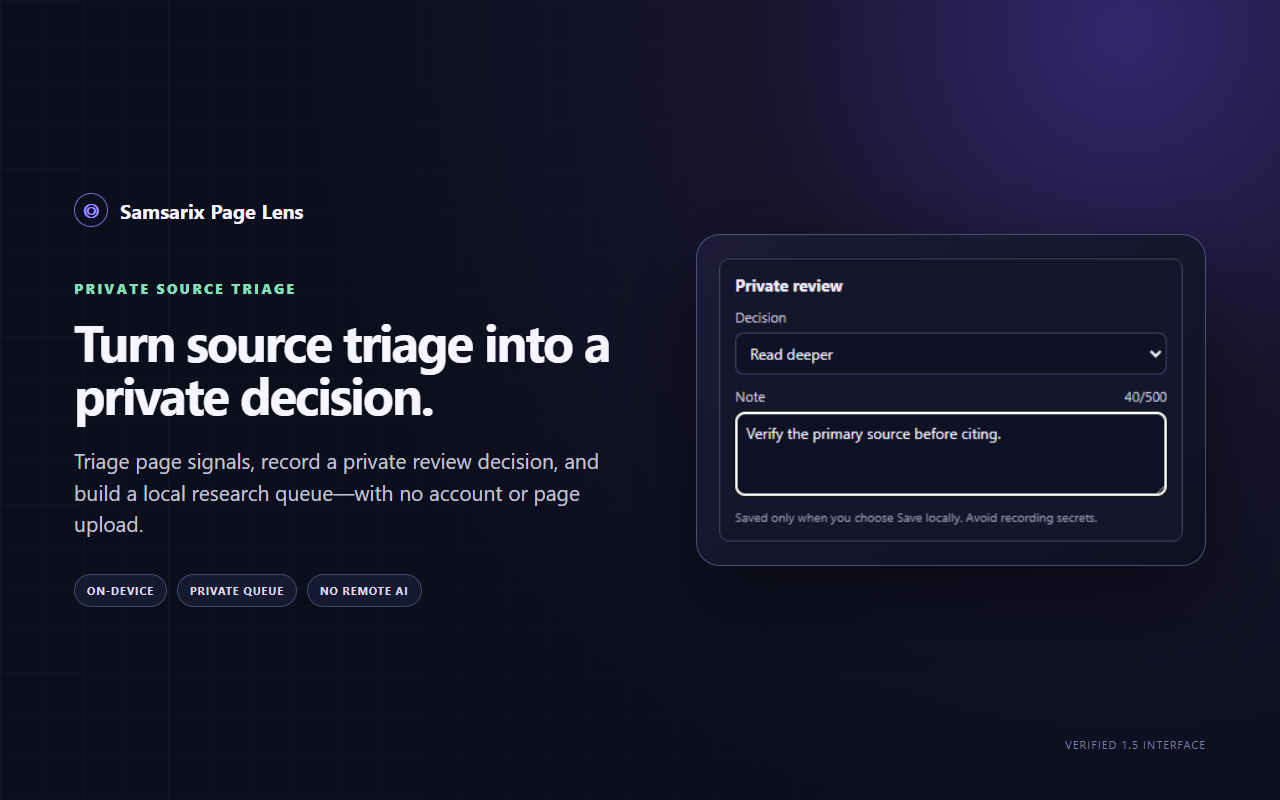
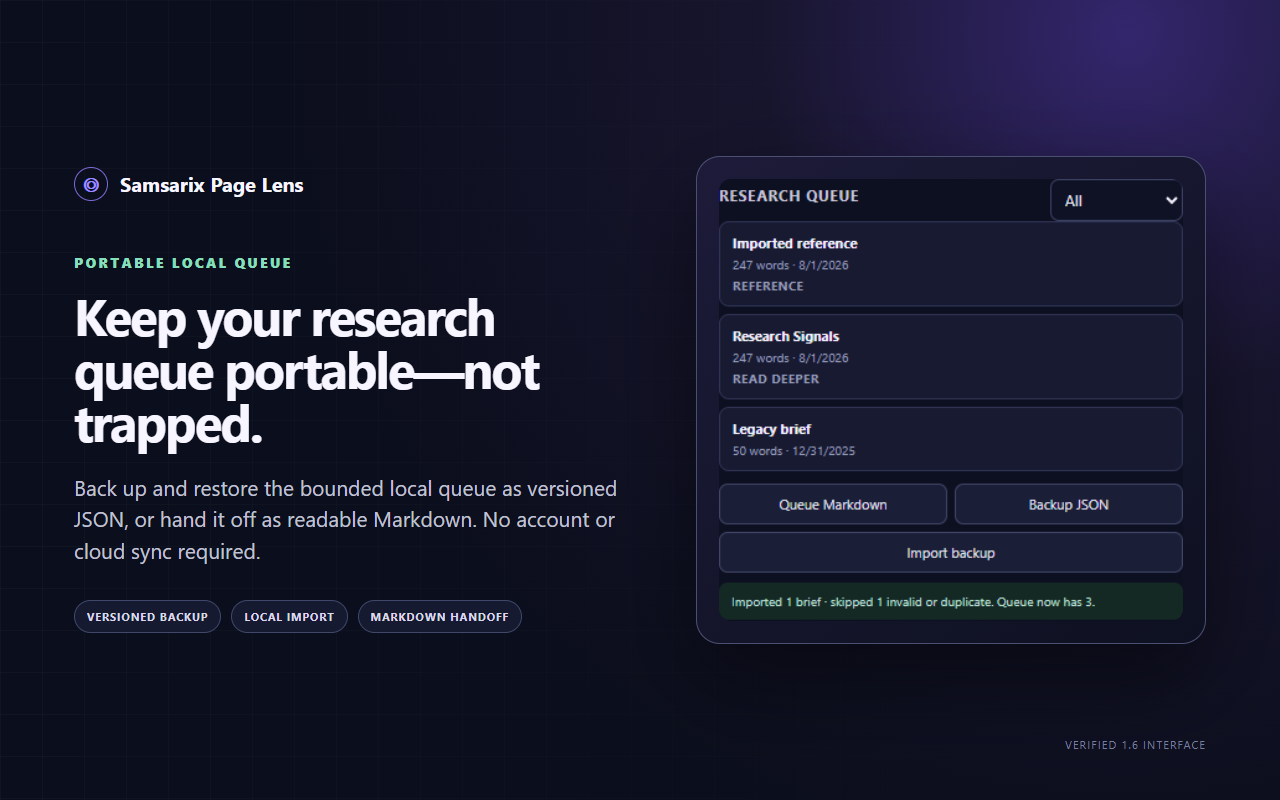
docs: prepare the Page Lens 1.6 release

diff --git a/site/privacy/index.html b/site/privacy/index.html
@@ -24,7 +24,7 @@
       <section><h2>What is processed</h2><p>The bounded extractor may process page text, title, sanitized URL, description, declared HTML language, headings, paragraphs, links, citation-like markup, visible byline/date metadata, and up to 20 unique external source domains. It visits at most 15,000 DOM nodes and retains at most 250,000 characters.</p><p>It skips scripts, styles, navigation, footers, forms, dialogs, templates, and elements explicitly marked <code>hidden</code> or <code>aria-hidden="true"</code>. It does not inspect form values. CSS-only hidden text may still be encountered.</p></section>
       <section><h2>Language and readability</h2><p>The English readability formula runs only when a page explicitly declares English. Declared non-English and undeclared-language pages retain Unicode-aware word, frequent-term, structure, and source analysis, while readability is shown as unavailable. No remote language detection occurs.</p></section>
       <section><h2>Storage and retention</h2><p>Nothing is saved automatically. Selecting <strong>Save locally</strong> stores a schema-v2 brief in <code>chrome.storage.local</code>. History is deduplicated by sanitized page URL, capped at 25 briefs, and remains until the user clears it or removes the extension/browser profile.</p><p>A brief contains structured counts and scores, visible metadata, frequent terms, an outline, external source domains, timestamps, an excerpt of at most 280 characters, and any private review decision or note entered by the user. Review notes are capped at 500 characters; users are warned not to record secrets. URL credentials, query parameters, and fragments are removed before storage or export. Paths, titles, metadata, excerpts, and notes can still be sensitive.</p><p>Chrome shares <code>chrome.storage.local</code> between regular and Incognito extension contexts. Saving in Incognito therefore adds the brief to the same persistent history available during regular browsing.</p></section>
-      <section><h2>Research queue, comparison, and export</h2><p>Research-queue filters and two-brief comparisons are computed locally. Comparisons are not stored automatically. Review decisions and notes are included only in a user-requested saved brief or explicit export. Copy, Markdown, and JSON export require explicit user action. After export, the system clipboard or browser download behavior controls the resulting data.</p></section>
+      <section><h2>Research queue, portability, and comparison</h2><p>Research-queue filters and two-brief comparisons are computed locally. Comparisons are not stored automatically. Review decisions and notes are included only in a user-requested saved brief or explicit export. Copy, Markdown, and JSON export require explicit user action. After export, the system clipboard or browser download behavior controls the resulting data.</p><p>Whole-queue Markdown and versioned JSON backup are explicit local actions, not synchronization. Import reads one user-selected JSON file locally, limited to 1 MB and 100 input records. Records are validated, sanitized, deduplicated, and capped at 25 stored briefs before one storage write. An invalid backup does not modify the existing queue.</p></section>
       <section><h2>Permissions</h2><ul><li><code>activeTab</code> gives temporary access only to the invoked tab.</li><li><code>scripting</code> runs the bounded extractor after explicit action.</li><li><code>storage</code> retains user-requested briefs.</li></ul><p>Page Lens requests no host permissions and installs no background worker or always-on content script.</p></section>
       <section><h2>Changes</h2><p>Any future remote processing requires an architecture, permission, store-declaration, and disclosure review before release. The canonical source disclosure is maintained with the extension in <a href="https://github.com/Deathcharge/samsarix-page-lens/blob/main/docs/PRIVACY.md">docs/PRIVACY.md</a>.</p></section>
     </main>

diff --git a/README.md b/README.md
@@ -11,10 +11,11 @@ One explicit click produces:
 - privacy-safe Markdown or JSON export and optional local history.
 - an on-device comparison between the current brief and any saved baseline, with descriptive deltas and shared signals.
 - a private research queue with review decisions, bounded notes, and decision filters.
+- versioned JSON queue backup/import and whole-queue Markdown handoff without cloud sync.
 
 Source signals describe what the page exposes. They do **not** establish factuality, credibility, authority, or quality.
 
-Status: **1.5 release candidate for unpacked-extension evaluation.** Chrome Web Store publication and pilot adoption are not yet complete.
+Status: **1.6 release candidate for unpacked-extension evaluation.** Chrome Web Store publication and pilot adoption are not yet complete.
 
 ## Install and try it
 
@@ -37,6 +38,7 @@ Chrome blocks extensions from reading internal pages such as `chrome://extension
 - **Source comparison:** save a baseline, analyze a second page, and compare length, structure, provenance cues, citations, shared source domains, and frequent terms locally.
 - **Private browsing workflow:** analyze intranet or sensitive pages locally, then choose explicitly whether to save a bounded brief.
 - **Research queue:** mark a saved source to read deeper, keep as a reference, or skip; add a short private note and filter the queue without creating an account.
+- **Portable recovery:** download the bounded queue as versioned JSON, restore it into another Page Lens profile, or hand off the whole queue as readable Markdown.
 
 ## Privacy and permissions
 
@@ -54,6 +56,8 @@ Saved and exported page/source URLs have credentials, queries, and fragments rem
 
 Comparisons are calculated on demand from two briefs already in the popup and are not stored automatically. Comparison Markdown contains sanitized URLs and descriptive deltas; it does not rank either page as more truthful or credible.
 
+Queue backup and import are explicit local actions, not synchronization. JSON imports are limited to 1 MB and 100 input records, validated before storage, normalized through the same privacy migration as existing history, deduplicated, and capped at 25 stored briefs. A structurally invalid backup does not modify the current queue.
+
 ## Development and verification
 
 ```bash
@@ -62,7 +66,7 @@ npx playwright install chromium
 npm run check
 ```
 
-The complete gate runs manifest/privacy/workflow policy checks, twenty-four deterministic unit tests, a clean artifact build, and an installed-extension Chromium test covering extraction, sanitization, popup rendering, local save, review decisions and filtering, history reopening, saved-baseline comparison, export, and declared non-English behavior.
+The complete gate runs manifest/privacy/workflow policy checks, twenty-seven deterministic unit tests, a clean artifact build, and an installed-extension Chromium test covering extraction, sanitization, popup rendering, local save, review decisions and filtering, queue backup/import, history reopening, saved-baseline comparison, export, and declared non-English behavior.
 
 Individual commands:
 
@@ -73,7 +77,7 @@ npm run build
 npm run test:browser
 ```
 
-`npm run build` creates the unpacked `dist/samsarix-page-lens` directory and deterministic `dist/samsarix-page-lens-1.5.0.zip`, containing only the runtime extension, icons, license, notice, and build metadata. Playwright, jsdom, and fflate are development-only dependencies and are not shipped.
+`npm run build` creates the unpacked `dist/samsarix-page-lens` directory and deterministic `dist/samsarix-page-lens-1.6.0.zip`, containing only the runtime extension, icons, license, notice, and build metadata. Playwright, jsdom, and fflate are development-only dependencies and are not shipped.
 
 ### Architecture
 

diff --git a/docs/STORE_LISTING.md b/docs/STORE_LISTING.md
@@ -12,9 +12,9 @@
 
 **Detailed description:**
 
-Samsarix Page Lens helps researchers, writers, journalists, students, and analysts decide whether a webpage deserves deeper reading. With one explicit click, it creates an on-device brief with estimated reading time, frequent terms, readability, document structure, visible byline/date metadata, citation markup, heading outline, and external source domains. Mark saved sources to read deeper, keep as references, or skip; add a bounded private note and filter the resulting research queue. A saved brief can also become a comparison baseline for descriptive deltas and shared source signals.
+Samsarix Page Lens helps researchers, writers, journalists, students, and analysts decide whether a webpage deserves deeper reading. With one explicit click, it creates an on-device brief with estimated reading time, frequent terms, readability, document structure, visible byline/date metadata, citation markup, heading outline, and external source domains. Mark saved sources to read deeper, keep as references, or skip; add a bounded private note and filter the resulting research queue. Back up or restore the queue with versioned JSON, hand it off as Markdown, or use a saved brief as a comparison baseline.
 
-Analysis, queue filtering, and comparison stay in the browser. There are no accounts, analytics, ads, remote AI services, or page-content uploads. Results and user-entered review metadata can be copied, exported as JSON or Markdown, or saved locally for later reference; comparisons are not stored automatically.
+Analysis, queue filtering, backup/import, and comparison stay in the browser. There are no accounts, analytics, ads, remote AI services, or page-content uploads. Results and user-entered review metadata can be copied, exported as JSON or Markdown, or saved locally for later reference; comparisons are not stored automatically and backup files are never synchronized by Page Lens.
 
 Readability is an English-oriented sentence-and-syllable estimate calculated only for pages that explicitly declare English. If a page declares another language or omits its language, readability is shown as unavailable with the reason. Unicode-aware word counts, frequent terms, structure, and source signals remain available. Source signals are not a fact check, credibility rating, or quality judgment. Saved and exported URLs have credentials, queries, and fragments removed.
 
@@ -29,7 +29,7 @@ No host permissions are requested.
 ## Owner-provided assets and actions
 
 - [ ] Confirm Samsarix LLC owns or has permission to use the product name and supplied icon artwork.
-- [x] Generate and visually review three 1280×800 screenshots in `store-assets/` from the packaged 1.5 browser journey.
+- [x] Generate and visually review three 1280×800 screenshots in `store-assets/` from the packaged 1.6 browser journey.
 - [ ] Provide a 440×280 promotional tile if desired.
 - [x] Prepare the standalone disclosure at `site/privacy/index.html` and a SHA-pinned, owner-triggered GitHub Pages workflow.
 - [ ] Enable GitHub Pages, manually run **Publish privacy disclosure**, verify the reported HTTPS URL, and use it in the listing.

diff --git a/docs/PRODUCTIZATION.md b/docs/PRODUCTIZATION.md
@@ -212,3 +212,22 @@ Local release evidence for 1.5:
 - `npm audit`: 0 vulnerabilities.
[1 lines of base64/hex data omitted]
 - PR head, merge commit, exact-head CI, and post-merge `main` CI will be recorded at release handoff.
+
+## Samsarix 1.6 portable queue recovery
+
+The local-first queue now has an explicit portability and recovery boundary:
+
+- **Backup JSON** emits a versioned Page Lens envelope containing the normalized, deduplicated queue of at most 25 briefs.
+- **Import backup** reads one user-selected JSON file locally, rejects files over 1 MB or envelopes over 100 input records, and validates the complete envelope before writing.
+- Imported records pass through the same schema migration, URL sanitization, note bounds, and deduplication as existing history; imported records intentionally take precedence for matching URLs.
+- **Queue Markdown** creates a readable whole-queue handoff but is not described as a lossless restore format.
+- No runtime network request, account, host permission, background worker, `unlimitedStorage`, or sync permission was added.
+
+Local release evidence for 1.6:
+
+- Manifest/privacy/workflow policy checks and all 27 deterministic unit tests pass.
+- The packaged Chromium journey covers empty-profile recovery access, exact queue backup download, bounded import, URL sanitization, imported-first merge, decision filtering, comparison/export, legacy migration, review timestamps, and declared non-English behavior.
+- `npm run build:store-assets` regenerated and visually verified three 1280×800 store compositions, including the actual portable-queue recovery state.
+- `npm audit`: 0 vulnerabilities.
[1 lines of base64/hex data omitted]
+- PR head, merge commit, exact-head CI, and post-merge `main` CI will be recorded at release handoff.

diff --git a/ROADMAP.md b/ROADMAP.md
@@ -7,7 +7,7 @@ This roadmap separates four gates: merge, release, publication, and flagship ado
 Portfolio role: **integration or extension**. Keep its platform-specific packaging and release lifecycle separate. Any flagship integration should use a documented HTTP, event, or package contract with explicit auth, privacy, and failure ownership.
 Planned repository identity: `Deathcharge/samsarix-page-lens` (ready).
 
-Current disposition: productization is merged. Version 1.5 develops the private source-triage wedge with saved-baseline comparison, language-honest readability, and a local research decision queue; public release and adoption remain separate decisions.
+Current disposition: productization is merged. Version 1.6 develops the private source-triage wedge with saved-baseline comparison, language-honest readability, a local research decision queue, and explicit portable recovery; public release and adoption remain separate decisions.
 
 ## Stabilize the productized default
 
@@ -34,6 +34,7 @@ Current hardening backlog:
 - Store screenshots and a hostable privacy disclosure are prepared and policy-checked. Pages enablement/publication, store account/signing/submission, and adoption evidence remain owner-controlled.
 - [x] Use Unicode-aware word/term tokenization; calculate the English readability formula only for pages that explicitly declare English, and show an unavailable reason for non-English or undeclared language.
 - [x] Turn triage into an actionable local queue with bounded private notes, explicit review decisions, filtering, migration, and portable export.
+- [x] Add a versioned, bounded queue backup/import contract and whole-queue Markdown handoff without introducing an account, network request, or sync permission.
 - Provenance cues vary by page type and need pilot feedback before weighting is treated as stable.
 - CSS-only hidden content is not detected; privacy copy now states this precisely.
 - [x] Rename the extracted source directory to the canonical `extension/` path.

diff --git a/store-assets/README.md b/store-assets/README.md
@@ -1,6 +1,6 @@
 # Chrome Web Store screenshots
 
-These 1280×800 PNGs are reproducible marketing compositions built from the installed-extension states exercised by `scripts/browser-smoke.cjs --store-assets`, including the 1.5 private-review decision panel. The regular `npm run test:browser` journey verifies the same behavior without spending CI time regenerating marketing evidence.
+These 1280×800 PNGs are reproducible marketing compositions built from the installed-extension states exercised by `scripts/browser-smoke.cjs --store-assets`, including the 1.6 portable-queue recovery panel. The regular `npm run test:browser` journey verifies the same behavior without spending CI time regenerating marketing evidence.
 
 Regenerate them from a clean checkout with:
 
@@ -10,4 +10,4 @@ npx playwright install chromium
 npm run build:store-assets
 ```
 
-The generator uses no remote fonts or imagery. The embedded product UI comes from the packaged 1.5 browser journey; surrounding copy is maintained in `scripts/store-assets.cjs`. Before submission, the store owner must review every image against the exact uploaded ZIP and current Chrome Web Store image/content policies.
+The generator uses no remote fonts or imagery. The embedded product UI comes from the packaged 1.6 browser journey; surrounding copy is maintained in `scripts/store-assets.cjs`. Before submission, the store owner must review every image against the exact uploaded ZIP and current Chrome Web Store image/content policies.

diff --git a/docs/MARKET_RESEARCH.md b/docs/MARKET_RESEARCH.md
@@ -50,5 +50,6 @@ Chrome’s own guidance recommends `activeTab` instead of broad host access wher
 2. Which provenance cues matter by source type: news, academic, documentation, policy, or corporate pages?
 3. Does a two-source comparison view save enough time to justify added complexity?
 4. **Decision implemented in 1.4:** use Unicode-aware word/term analysis on all pages and calculate the English readability score only when a page explicitly declares English. Non-English and undeclared-language pages show readability as unavailable. Locale-specific formulas remain a demand-driven future option.
+5. **Decision implemented in 1.6:** make the local queue explicitly portable through a small, versioned JSON contract and Markdown handoff. [Chrome documents `storage.local`](https://developer.chrome.com/docs/extensions/reference/api/storage) as device-local, limited to 10 MB, and removed with the extension; Page Lens remains well below that quota without requesting `unlimitedStorage`. [Zotero’s current export guidance](https://www.zotero.org/support/kb/exporting) reinforces that export and backup are distinct concepts, so Page Lens labels its exact queue JSON as a Page Lens backup while describing Markdown as handoff—not lossless restore or cloud sync.
 
 Claims above describe current public product pages and listings; they are competitive observations, not adoption or market-size evidence.
